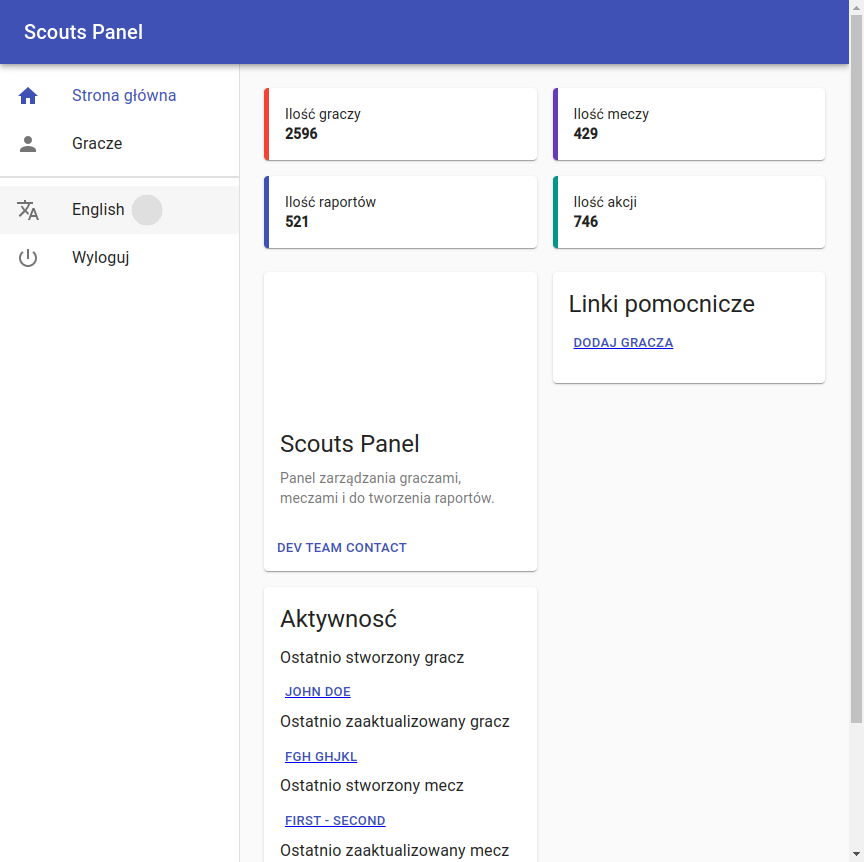
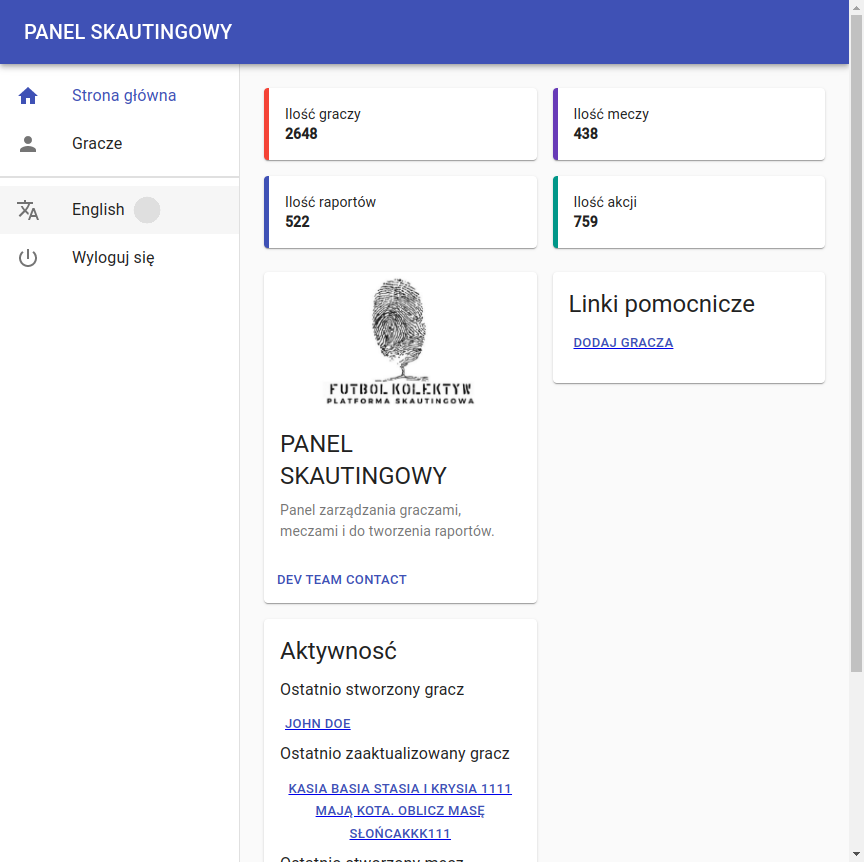
task_5

diff --git a/log.html b/log.html
@@ -1803,25 +1803,25 @@ function stopPropagation(event) {
 window.output = {};
 </script>
 <script type="text/javascript">
-window.output["suite"] = [1,2,3,4,[],[1,0,24676],[],[[5,0,0,[],[1,109,3736],[[0,6,0,0,0,0,0,0,[1,109,1802],[[0,7,8,0,9,10,0,0,[1,110,1794],[[110,2,11]]],[0,12,8,0,13,14,0,0,[1,1904,7],[[1910,2,15]]]]],[0,16,0,0,0,0,0,0,[1,1911,172],[[0,17,8,0,18,19,0,0,[1,1911,172],[[1912,2,20]]]]],[0,21,0,0,0,0,0,0,[1,2084,117],[[0,17,8,0,18,22,0,0,[1,2084,117],[[2084,2,23]]]]],[0,24,0,0,0,0,0,0,[1,2202,36],[[0,25,8,0,26,27,0,0,[1,2202,35],[[2202,2,28]]]]],[0,29,0,0,0,0,0,0,[1,2238,1549],[[0,30,8,0,31,32,0,0,[1,2238,1465],[]],[0,12,8,0,13,33,0,0,[1,3703,2],[[3705,2,34]]],[0,35,8,0,36,37,0,0,[1,3705,82],[[3787,2,38]]]]],[2,39,8,0,40,0,0,0,[1,3787,58],[]]]],[41,0,0,[],[1,3845,3269],[[0,6,0,0,0,0,0,0,[1,3846,2434],[[0,7,8,0,9,10,0,0,[1,3846,2430],[[3847,2,11]]],[0,12,8,0,13,14,0,0,[1,6276,4],[[6280,2,15]]]]],[0,16,0,0,0,0,0,0,[1,6280,102],[[0,17,8,0,18,19,0,0,[1,6280,102],[[6281,2,20]]]]],[0,42,0,0,0,0,0,0,[1,6383,57],[[0,17,8,0,18,43,0,0,[1,6383,57],[[6384,2,44]]]]],[0,24,0,0,0,0,0,0,[1,6440,42],[[0,25,8,0,26,27,0,0,[1,6441,41],[[6441,2,28]]]]],[0,45,0,0,0,0,0,0,[1,6482,576],[[0,30,8,0,31,46,0,0,[1,6483,444],[]],[0,47,8,0,48,49,0,0,[1,6927,11],[[6928,2,50]]],[0,35,8,0,36,51,0,0,[1,6939,119],[[7058,2,52]]]]],[2,39,8,0,40,0,0,0,[1,7058,56],[]]]],[53,0,0,[],[1,7114,5702],[[0,6,0,0,0,0,0,0,[1,7115,2296],[[0,7,8,0,9,10,0,0,[1,7115,2293],[[7115,2,11]]],[0,12,8,0,13,14,0,0,[1,9408,3],[[9411,2,15]]]]],[0,16,0,0,0,0,0,0,[1,9412,98],[[0,17,8,0,18,19,0,0,[1,9412,98],[[9413,2,20]]]]],[0,21,0,0,0,0,0,0,[1,9510,78],[[0,17,8,0,18,22,0,0,[1,9511,77],[[9511,2,23]]]]],[0,24,0,0,0,0,0,0,[1,9588,32],[[0,25,8,0,26,27,0,0,[1,9589,31],[[9589,2,28]]]]],[0,54,0,0,0,0,0,0,[1,9620,1127],[[0,30,8,0,31,55,0,0,[1,9621,1079],[]],[0,25,8,0,26,55,0,0,[1,10700,47],[[10701,2,56]]]]],[0,57,0,0,0,0,0,0,[1,10748,136],[[0,30,8,0,31,58,0,0,[1,10748,73],[]],[0,17,8,0,18,59,0,0,[1,10821,63],[[10822,2,60]]]]],[0,61,0,0,0,0,0,0,[1,10884,67],[[0,17,8,0,18,62,0,0,[1,10885,66],[[10885,2,63]]]]],[0,64,0,0,0,0,0,0,[1,10951,65],[[0,17,8,0,18,65,0,0,[1,10951,65],[[10952,2,66]]]]],[0,67,0,0,0,0,0,0,[1,11016,84],[[0,17,8,0,18,68,0,0,[1,11017,83],[[11017,2,69]]]]],[0,70,0,0,0,0,0,0,[1,11100,43],[[0,25,8,0,26,71,0,0,[1,11100,42],[[11101,2,72]]]]],[0,73,0,0,0,0,0,0,[1,11143,617],[[0,30,8,0,31,74,0,0,[1,11143,471],[]],[0,47,8,0,48,75,0,0,[1,11614,21],[[11616,2,76]]],[0,35,8,0,36,77,0,0,[1,11635,125],[[11760,2,78]]]]],[2,39,8,0,40,0,0,0,[1,11761,1055],[]]]],[79,0,0,[],[1,12816,3655],[[0,6,0,0,0,0,0,0,[1,12817,2270],[[0,7,8,0,9,10,0,0,[1,12817,2267],[[12817,2,11]]],[0,12,8,0,13,14,0,0,[1,15085,2],[[15087,2,15]]]]],[0,16,0,0,0,0,0,0,[1,15087,103],[[0,17,8,0,18,19,0,0,[1,15088,101],[[15088,2,20]]]]],[0,21,0,0,0,0,0,0,[1,15190,73],[[0,17,8,0,18,22,0,0,[1,15190,73],[[15191,2,23]]]]],[0,24,0,0,0,0,0,0,[1,15263,36],[[0,25,8,0,26,27,0,0,[1,15264,35],[[15264,2,28]]]]],[0,80,0,0,0,0,0,0,[1,15299,1109],[[0,30,8,0,31,81,0,0,[1,15299,1068],[]],[0,25,8,0,26,81,0,0,[1,16368,40],[[16368,2,82]]]]],[2,39,8,0,40,0,0,0,[1,16409,61],[]]]],[83,0,0,[],[1,16471,4154],[[0,6,0,0,0,0,0,0,[1,16471,1982],[[0,7,8,0,9,10,0,0,[1,16472,1975],[[16472,2,11]]],[0,12,8,0,13,14,0,0,[1,18447,6],[[18453,2,15]]]]],[0,16,0,0,0,0,0,0,[1,18453,102],[[0,17,8,0,18,19,0,0,[1,18453,101],[[18454,2,20]]]]],[0,21,0,0,0,0,0,0,[1,18555,73],[[0,17,8,0,18,22,0,0,[1,18555,73],[[18556,2,23]]]]],[0,24,0,0,0,0,0,0,[1,18628,34],[[0,25,8,0,26,27,0,0,[1,18629,33],[[18629,2,28]]]]],[0,84,0,0,0,0,0,0,[1,18662,1768],[[0,30,8,0,31,85,0,0,[1,18663,1720],[]],[0,25,8,0,26,85,0,0,[1,20383,47],[[20383,2,86]]]]],[0,87,0,0,0,0,0,0,[1,20431,138],[[0,30,8,0,31,85,0,0,[1,20431,22],[]],[0,47,8,0,48,88,0,0,[1,20453,11],[[20453,2,89]]],[0,35,8,0,36,90,0,0,[1,20464,105],[[20569,2,91]]]]],[2,39,8,0,40,0,0,0,[1,20569,55],[]]]],[92,0,0,[],[1,20625,4050],[[0,6,0,0,0,0,0,0,[1,20625,1668],[[0,7,8,0,9,10,0,0,[1,20625,1662],[[20626,2,11]]],[0,12,8,0,13,14,0,0,[1,22287,6],[[22293,2,15]]]]],[0,16,0,0,0,0,0,0,[1,22293,110],[[0,17,8,0,18,19,0,0,[1,22294,109],[[22294,2,20]]]]],[0,21,0,0,0,0,0,0,[1,22404,67],[[0,17,8,0,18,22,0,0,[1,22404,67],[[22405,2,23]]]]],[0,24,0,0,0,0,0,0,[1,22471,33],[[0,25,8,0,26,27,0,0,[1,22472,32],[[22472,2,28]]]]],[0,93,0,0,0,0,0,0,[1,22505,1696],[[0,30,8,0,31,32,0,0,[1,22505,1280],[]],[0,94,8,0,95,96,0,0,[1,23785,416],[[23785,2,97]]]]],[0,98,0,0,0,0,0,0,[1,24202,105],[[0,30,8,0,31,99,0,0,[1,24202,42],[]],[0,17,8,0,18,100,0,0,[1,24244,63],[[24245,2,101]]]]],[0,102,0,0,0,0,0,0,[1,24307,71],[[0,17,8,0,18,103,0,0,[1,24307,71],[[24308,2,104]]]]],[0,105,0,0,0,0,0,0,[1,24379,70],[[0,17,8,0,18,106,0,0,[1,24379,70],[[24381,2,107]]]]],[0,108,0,0,0,0,0,0,[1,24449,54],[[0,17,8,0,18,109,0,0,[1,24450,53],[[24450,2,110]]]]],[0,111,0,0,0,0,0,0,[1,24503,66],[[0,17,8,0,18,112,0,0,[1,24504,64],[[24504,2,113]]]]],[0,114,0,0,0,0,0,0,[1,24569,46],[[0,25,8,0,26,115,0,0,[1,24569,46],[[24570,2,116]]]]],[2,39,8,0,40,0,0,0,[1,24615,60],[]]]]],[],[6,6,0,0]];
+window.output["suite"] = [1,2,3,4,[],[0,0,38805],[],[[5,0,0,[],[0,95,4111,6],[[0,7,0,0,0,0,0,0,[1,96,1530],[[0,8,9,0,10,11,0,0,[1,96,1527],[[97,2,12]]],[0,13,9,0,14,15,0,0,[1,1623,3],[[1625,2,16]]]]],[0,17,0,0,0,0,0,0,[1,1626,194],[[0,18,9,0,19,20,0,0,[1,1626,193],[[1626,2,21]]]]],[0,22,0,0,0,0,0,0,[1,1820,112],[[0,18,9,0,19,23,0,0,[1,1820,111],[[1820,2,24]]]]],[0,25,0,0,0,0,0,0,[1,1932,59],[[0,26,9,0,27,28,0,0,[1,1932,59],[[1933,2,29]]]]],[0,30,0,0,0,0,0,0,[0,1991,2156],[[0,31,9,0,32,33,0,0,[1,1991,1963],[]],[0,13,9,0,14,34,0,0,[0,3954,192],[[4144,2,35],[4144,5,6]]],[0,36,9,0,37,38,0,0,[3,4146,1],[]]]],[2,39,9,0,40,0,0,0,[1,4147,58],[]]]],[41,0,0,[],[1,4206,2320],[[0,7,0,0,0,0,0,0,[1,4207,1431],[[0,8,9,0,10,11,0,0,[1,4207,1428],[[4207,2,12]]],[0,13,9,0,14,15,0,0,[1,5635,3],[[5638,2,16]]]]],[0,17,0,0,0,0,0,0,[1,5638,156],[[0,18,9,0,19,20,0,0,[1,5639,155],[[5639,2,21]]]]],[0,42,0,0,0,0,0,0,[1,5794,74],[[0,18,9,0,19,43,0,0,[1,5794,74],[[5795,2,44]]]]],[0,25,0,0,0,0,0,0,[1,5868,42],[[0,26,9,0,27,28,0,0,[1,5868,42],[[5869,2,29]]]]],[0,45,0,0,0,0,0,0,[1,5910,559],[[0,31,9,0,32,46,0,0,[1,5911,444],[]],[0,47,9,0,48,49,0,0,[1,6355,12],[[6355,2,50]]],[0,36,9,0,37,51,0,0,[1,6367,101],[[6468,2,52]]]]],[2,39,9,0,40,0,0,0,[1,6469,57],[]]]],[53,0,0,[],[0,6527,11392,54],[[0,7,0,0,0,0,0,0,[1,6527,1657],[[0,8,9,0,10,11,0,0,[1,6527,1649],[[6528,2,12]]],[0,13,9,0,14,15,0,0,[1,8176,8],[[8184,2,16]]]]],[0,17,0,0,0,0,0,0,[1,8184,118],[[0,18,9,0,19,20,0,0,[1,8184,118],[[8185,2,21]]]]],[0,22,0,0,0,0,0,0,[1,8302,69],[[0,18,9,0,19,23,0,0,[1,8302,69],[[8303,2,24]]]]],[0,25,0,0,0,0,0,0,[1,8371,31],[[0,26,9,0,27,28,0,0,[1,8371,31],[[8372,2,29]]]]],[0,55,0,0,0,0,0,0,[1,8402,905],[[0,31,9,0,32,56,0,0,[1,8403,875],[]],[0,26,9,0,27,56,0,0,[1,9278,29],[[9279,2,57]]]]],[0,58,0,0,0,0,0,0,[1,9307,3060],[[0,31,9,0,32,59,0,0,[1,9307,2999],[]],[0,18,9,0,19,60,0,0,[1,12306,61],[[12307,2,61]]]]],[0,62,0,0,0,0,0,0,[1,12367,64],[[0,18,9,0,19,63,0,0,[1,12367,64],[[12368,2,64]]]]],[0,65,0,0,0,0,0,0,[1,12431,70],[[0,18,9,0,19,66,0,0,[1,12431,70],[[12432,2,67]]]]],[0,68,0,0,0,0,0,0,[1,12501,83],[[0,18,9,0,19,69,0,0,[1,12501,83],[[12502,2,70]]]]],[0,71,0,0,0,0,0,0,[1,12584,53],[[0,26,9,0,27,72,0,0,[1,12584,53],[[12585,2,73]]]]],[0,74,0,0,0,0,0,0,[0,12637,5223],[[0,31,9,0,32,75,0,0,[0,12637,5223],[[17853,2,76],[17854,5,54]]],[0,47,9,0,48,77,0,0,[3,17860,0],[]],[0,36,9,0,37,78,0,0,[3,17860,0],[]]]],[2,39,9,0,40,0,0,0,[1,17861,58],[]]]],[79,0,0,[],[0,17919,7015,80],[[0,7,0,0,0,0,0,0,[1,17920,1457],[[0,8,9,0,10,11,0,0,[1,17920,1444],[[17920,2,12]]],[0,13,9,0,14,15,0,0,[1,19364,13],[[19377,2,16]]]]],[0,17,0,0,0,0,0,0,[1,19377,202],[[0,18,9,0,19,20,0,0,[1,19378,201],[[19378,2,21]]]]],[0,22,0,0,0,0,0,0,[1,19580,100],[[0,18,9,0,19,23,0,0,[1,19580,100],[[19580,2,24]]]]],[0,25,0,0,0,0,0,0,[1,19680,38],[[0,26,9,0,27,28,0,0,[1,19681,37],[[19681,2,29]]]]],[0,81,0,0,0,0,0,0,[0,19719,5158],[[0,31,9,0,32,82,0,0,[0,19719,5158],[[24877,2,83],[24877,5,80]]],[0,26,9,0,27,82,0,0,[3,24877,0],[]]]],[2,39,9,0,40,0,0,0,[1,24877,57],[]]]],[84,0,0,[],[1,24934,4967],[[0,7,0,0,0,0,0,0,[1,24935,3356],[[0,8,9,0,10,11,0,0,[1,24935,3352],[[24935,2,12]]],[0,13,9,0,14,15,0,0,[1,28287,4],[[28291,2,16]]]]],[0,17,0,0,0,0,0,0,[1,28291,110],[[0,18,9,0,19,20,0,0,[1,28291,110],[[28291,2,21]]]]],[0,22,0,0,0,0,0,0,[1,28401,71],[[0,18,9,0,19,23,0,0,[1,28401,71],[[28402,2,24]]]]],[0,25,0,0,0,0,0,0,[1,28472,33],[[0,26,9,0,27,28,0,0,[1,28472,33],[[28473,2,29]]]]],[0,85,0,0,0,0,0,0,[1,28505,1161],[[0,31,9,0,32,86,0,0,[1,28505,1110],[]],[0,26,9,0,27,86,0,0,[1,29615,51],[[29616,2,87]]]]],[0,88,0,0,0,0,0,0,[1,29666,178],[[0,31,9,0,32,86,0,0,[1,29666,25],[]],[0,47,9,0,48,89,0,0,[1,29692,14],[[29692,2,90]]],[0,36,9,0,37,91,0,0,[1,29706,138],[[29844,2,92]]]]],[2,39,9,0,40,0,0,0,[1,29844,57],[]]]],[93,0,0,[],[0,29901,8903,94],[[0,7,0,0,0,0,0,0,[1,29902,2346],[[0,8,9,0,10,11,0,0,[1,29902,2342],[[29902,2,12]]],[0,13,9,0,14,15,0,0,[1,32245,3],[[32248,2,16]]]]],[0,17,0,0,0,0,0,0,[1,32248,105],[[0,18,9,0,19,20,0,0,[1,32249,104],[[32249,2,21]]]]],[0,22,0,0,0,0,0,0,[1,32353,71],[[0,18,9,0,19,23,0,0,[1,32354,70],[[32354,2,24]]]]],[0,25,0,0,0,0,0,0,[1,32424,32],[[0,26,9,0,27,28,0,0,[1,32424,32],[[32425,2,29]]]]],[0,95,0,0,0,0,0,0,[1,32456,1131],[[0,31,9,0,32,33,0,0,[1,32456,874],[]],[0,96,9,0,97,98,0,0,[1,33330,257],[[33331,2,99]]]]],[0,100,0,0,0,0,0,0,[0,33588,5155],[[0,31,9,0,32,101,0,0,[0,33588,5155],[[38743,2,102],[38743,5,94]]],[0,18,9,0,19,103,0,0,[3,38743,0],[]]]],[0,104,0,0,0,0,0,0,[3,38743,0],[]],[0,105,0,0,0,0,0,0,[3,38743,1],[]],[0,106,0,0,0,0,0,0,[3,38744,0],[]],[0,107,0,0,0,0,0,0,[3,38744,0],[]],[0,108,0,0,0,0,0,0,[3,38744,0],[]],[2,39,9,0,40,0,0,0,[1,38744,60],[]]]]],[],[6,2,4,0]];
 </script>
 <script type="text/javascript">
 window.output["strings"] = [];
 </script>
 <script type="text/javascript">
[2 lines of base64/hex data omitted]
 </script>
 <script type="text/javascript">
-window.output["stats"] = [[{"elapsed":"00:00:25","fail":0,"label":"All Tests","pass":6,"skip":0}],[],[{"elapsed":"00:00:25","fail":0,"id":"s1","label":"Test Scouts Football Rf","name":"Test Scouts Football Rf","pass":6,"skip":0}]];
+window.output["stats"] = [[{"elapsed":"00:00:39","fail":4,"label":"All Tests","pass":2,"skip":0}],[],[{"elapsed":"00:00:39","fail":4,"id":"s1","label":"Test Scouts Football Rf","name":"Test Scouts Football Rf","pass":2,"skip":0}]];
 </script>
 <script type="text/javascript">
 window.output["errors"] = [];
 </script>
 <script type="text/javascript">
-window.output["baseMillis"] = 1676325131798;
+window.output["baseMillis"] = 1676829305555;
 </script>
 <script type="text/javascript">
-window.output["generated"] = 24684;
+window.output["generated"] = 38814;
 </script>
 <script type="text/javascript">
 window.output["expand_keywords"] = null;

diff --git a/report.html b/report.html
@@ -1629,22 +1629,22 @@ storage = function () {
 window.output = {};
 </script>
 <script type="text/javascript">
-window.output["suite"] = [1,2,3,4,[],[1,0,24676],[],[[5,0,0,[],[1,109,3736],[]],[6,0,0,[],[1,3845,3269],[]],[7,0,0,[],[1,7114,5702],[]],[8,0,0,[],[1,12816,3655],[]],[9,0,0,[],[1,16471,4154],[]],[10,0,0,[],[1,20625,4050],[]]],[],[6,6,0,0]];
+window.output["suite"] = [1,2,3,4,[],[0,0,38805],[],[[5,0,0,[],[0,95,4111,6],[]],[7,0,0,[],[1,4206,2320],[]],[8,0,0,[],[0,6527,11392,9],[]],[10,0,0,[],[0,17919,7015,11],[]],[12,0,0,[],[1,24934,4967],[]],[13,0,0,[],[0,29901,8903,14],[]]],[],[6,2,4,0]];
 </script>
 <script type="text/javascript">
 window.output["strings"] = [];
 </script>
 <script type="text/javascript">
-window.output["strings"] = window.output["strings"].concat(["*","*Test Scouts Football Rf","*/home/yevgrafova/Documents/GitHub/test_robotframework/test_scouts_football_rf.robot","*test_scouts_football_rf.robot","*<p>Suite description #automated tests for scout website\x3c/p>","*Login to the system with correct credentials","*Login to the system with incorrect credentials","*Add a player","*Sign out of the system","*Change language","*Add a match"]);
+window.output["strings"] = window.output["strings"].concat(["*","*Test Scouts Football Rf","*/home/yevgrafova/Documents/GitHub/test_robotframework/test_scouts_football_rf.robot","*test_scouts_football_rf.robot","*<p>Suite description #automated tests for scout website\x3c/p>","*Login to the system with correct credentials","*Title should have been 'Scouts panel' but was 'PANEL SKAUTINGOWY'.","*Login to the system with incorrect credentials","*Add a player","*Element '//*[text()=\"John Doe\"]' not visible after 5 seconds.","*Sign out of the system","*Element '//*[text()='Sign out']' not visible after 5 seconds.","*Change language","*Add a match","*Element '//*[@name='myTeam']' not visible after 5 seconds."]);
 </script>
 <script type="text/javascript">
-window.output["stats"] = [[{"elapsed":"00:00:25","fail":0,"label":"All Tests","pass":6,"skip":0}],[],[{"elapsed":"00:00:25","fail":0,"id":"s1","label":"Test Scouts Football Rf","name":"Test Scouts Football Rf","pass":6,"skip":0}]];
+window.output["stats"] = [[{"elapsed":"00:00:39","fail":4,"label":"All Tests","pass":2,"skip":0}],[],[{"elapsed":"00:00:39","fail":4,"id":"s1","label":"Test Scouts Football Rf","name":"Test Scouts Football Rf","pass":2,"skip":0}]];
 </script>
 <script type="text/javascript">
-window.output["baseMillis"] = 1676325131798;
+window.output["baseMillis"] = 1676829305555;
 </script>
 <script type="text/javascript">
-window.output["generated"] = 24684;
+window.output["generated"] = 38814;
 </script>
 <script type="text/javascript">
 window.output["expand_keywords"] = null;
